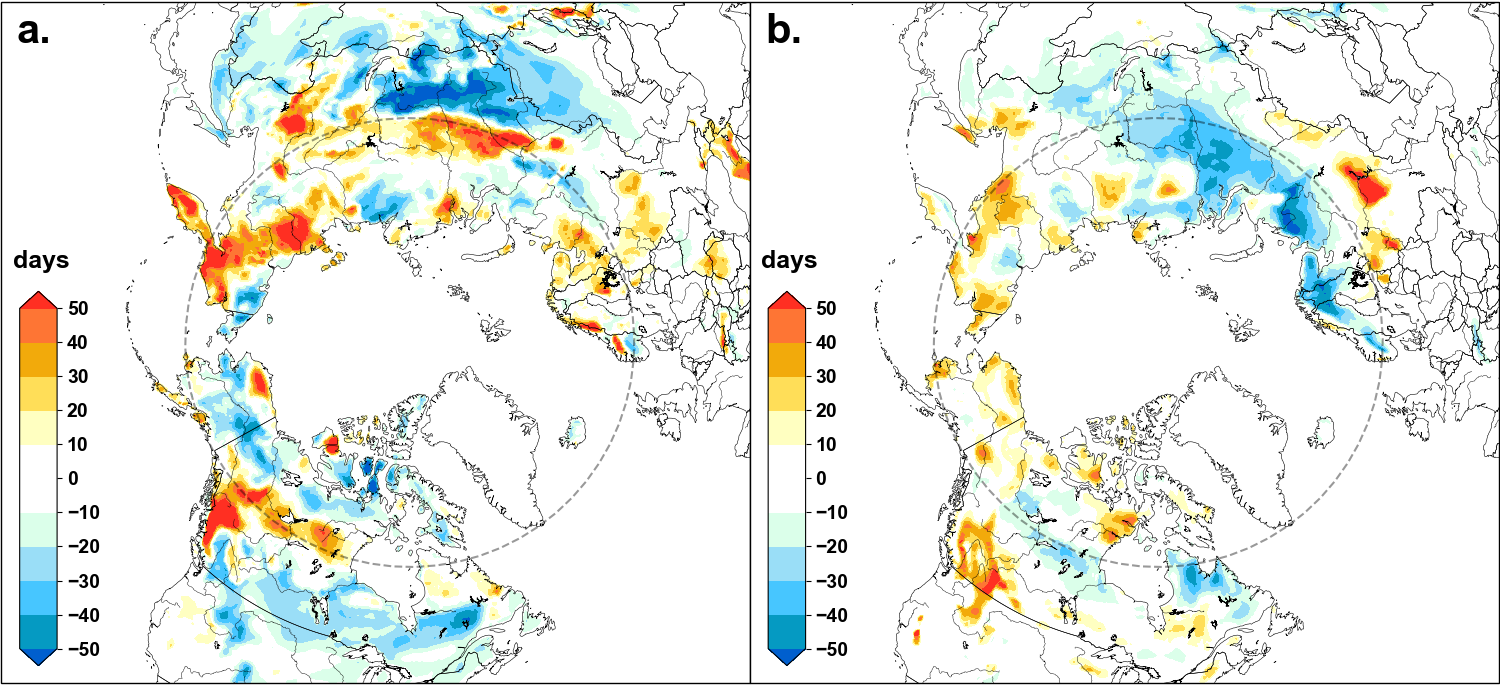
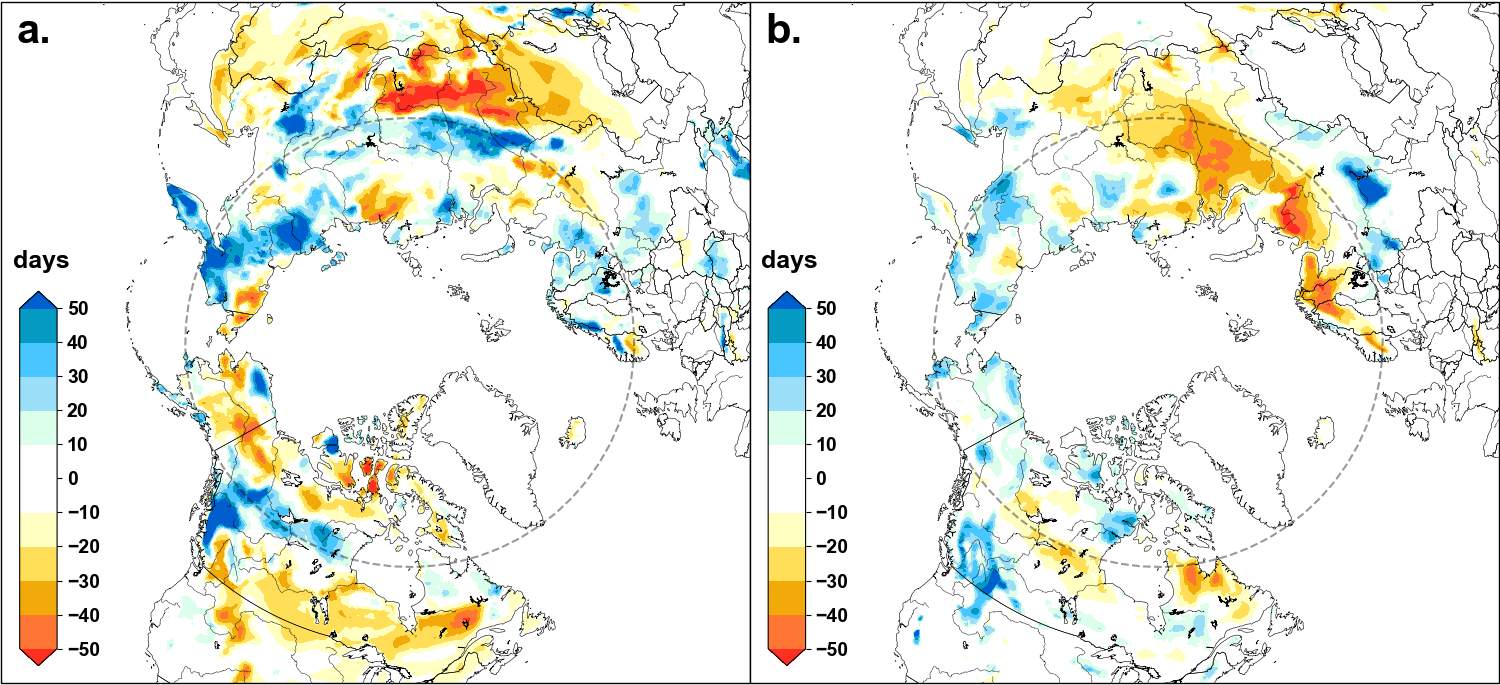
Add fig 3 draft - fig 1: lawrence wants a wider mean-line - fig 2: forgot that blue means more snow

diff --git a/scripts/snow_fig_3.py b/scripts/snow_fig_3.py
@@ -1,0 +1,111 @@
+from pathlib import Path
+
+import cartopy.crs as ccrs
+import geopandas as gpd
+import matplotlib as mpl
+import matplotlib.pyplot as plt
+import xarray as xr
+from mpl_toolkits.axes_grid1.inset_locator import inset_axes
+
+plt.rcParams['font.weight'] = 'bold'
+plt.rcParams['font.family'] = 'Arial'
+plt.rcParams['axes.labelsize'] = 16
+plt.rcParams['axes.labelweight'] = 'bold'
+plt.rcParams['xtick.labelsize'] = 14
+plt.rcParams['ytick.labelsize'] = 14
+
+fig_crs = ccrs.LambertAzimuthalEqualArea(central_latitude=90, central_longitude=-80)
+data_crs = ccrs.PlateCarree()
+figsize = (11, 10)
+dpi = 100
+extent = [-5e6, 5e6, -5e6, 5e6]
+cbar_ticks = [-100, -80, -60, -40, -20, 0, 20, 40, 60, 80, 100]
+# copied the RGB values from Arc18_Snow_Fig2.png
+cmap = mpl.colors.LinearSegmentedColormap.from_list(
+    name='fig3',
+    colors=[
+        (x[0]/255, x[1]/255, x[2]/255) for x in [
+            (255,  47,  34), (255, 113,  57), (239, 162,   0),
+            (255, 211,  66), (255, 255, 156), (255, 255, 255),
+            (255, 255, 255), (255, 255, 255), (198, 255, 222),
+            (140, 211, 255), ( 57, 195, 255), (  0, 150, 189),
+            (  0,  95, 206)
+        ]
+    ],
+    N=256
+)
+
+data_root = Path(__file__).parent.parent / 'data'
+# load netcdf data (snow depth?, orig type = float)
+with xr.open_dataset(data_root / 'ARC_SDP_anomaly_a.nc') as ds:
+    data_a = ds['sdp']
+with xr.open_dataset(data_root / 'ARC_SDP_anomaly_b.nc') as ds:
+    data_b = ds['sdp']
+with xr.open_dataset(data_root / 'ARC_SDP_anomaly_c.nc') as ds:
+    data_c = ds['sdp']
+with xr.open_dataset(data_root / 'ARC_SDP_anomaly_d.nc') as ds:
+    data_d = ds['sdp']
+
+# load vector data
+land = gpd.read_file(data_root / 'vector' / 'land.gpkg').to_crs(fig_crs.proj4_init)
+lakes = gpd.read_file(data_root / 'vector' / 'lakes.gpkg').to_crs(fig_crs.proj4_init)
+ac = gpd.read_file(data_root / 'vector' / 'arcticcircle.gpkg').to_crs(fig_crs.proj4_init)
+rivers = gpd.read_file(data_root / 'vector' / 'rivers.gpkg').to_crs(fig_crs.proj4_init)
+
+# initialize canvas
+fig, axs = plt.subplots(
+    figsize=figsize,
+    nrows=2,
+    ncols=2,
+    sharex=True,
+    sharey=True,
+    subplot_kw={'projection': fig_crs},
+    gridspec_kw={'hspace': 0, 'wspace': 0}
+)
+((ax_a, ax_b), (ax_c, ax_d)) = axs
+
+# setting margins
+plt.subplots_adjust(top=0.999, bottom=0.001, left=0.001, right=0.999)
+
+contour_a = data_a.plot.contourf(
+    ax=ax_a, add_colorbar=False, transform=data_crs, 
+    cmap=cmap, levels=cbar_ticks, extend='both'
+)
+contour_b = data_b.plot.contourf(
+    ax=ax_b, add_colorbar=False, transform=data_crs, 
+    cmap=cmap, levels=cbar_ticks, extend='both'
+)
+contour_c = data_c.plot.contourf(
+    ax=ax_c, add_colorbar=False, transform=data_crs, 
+    cmap=cmap, levels=cbar_ticks, extend='both'
+)
+contour_d = data_d.plot.contourf(
+    ax=ax_d, add_colorbar=False, transform=data_crs, 
+    cmap=cmap, levels=cbar_ticks, extend='both'
+)
+
+# setting figure extents
+ax_a.set_extent(extent, crs=fig_crs)
+ax_a.outline_patch.set_linewidth(1)
+ax_b.outline_patch.set_linewidth(1)
+ax_c.outline_patch.set_linewidth(1)
+ax_d.outline_patch.set_linewidth(1)
+
+# adding vector data to map
+for ax in [ax_a, ax_b, ax_c, ax_d]:
+    ax.add_geometries(land['geometry'], facecolor='None', edgecolor='black', linewidth=0.4, crs=fig_crs)
+    ax.add_geometries(lakes['geometry'], facecolor='white', edgecolor='black', linewidth=0.4, zorder=2, crs=fig_crs)
+    ax.add_geometries(ac['geometry'], facecolor='None', edgecolor='black', linestyle='dashed', linewidth=1.5, alpha=0.4, zorder=3, crs=fig_crs)
+    ax.add_geometries(rivers['geometry'], facecolor='None', edgecolor='black', linewidth=0.3, crs=fig_crs)
+
+# colorbar
+cb_ax = fig.add_axes([0.92, 0.25, 0.02, 0.5])
+cbar = fig.colorbar(contour_a, ax=axs[:, 1], cax=cb_ax, ticks=cbar_ticks, extend='both')
+
+# reset axes positions (pain!)
+ax_a.set_position(pos=[0.001, 0.498, 0.45, 0.5])
+ax_b.set_position(pos=[0.451, 0.498, 0.45, 0.5])
+ax_c.set_position(pos=[0.001, 0.001, 0.45, 0.5])
+ax_d.set_position(pos=[0.451, 0.001, 0.45, 0.5])
+
+plt.show()

diff --git a/scripts/snow_fig_1.py b/scripts/snow_fig_1.py
@@ -75,11 +75,17 @@ current['june_sce_ea'].plot(
 )
 
 # plot means
-df.iloc[:-1][['may_sce_na', 'may_sce_ea']].rolling(5, center=True).mean().plot(
+sub_mean = df.iloc[:-1]
+sub_mean = sub_mean.set_index(
+    pd.date_range(f'{sub_mean.index.min()}-01-01', f'{sub_mean.index.max()}-01-01', freq='YS')
+)
+rolling_may = sub_mean[['may_sce_na', 'may_sce_ea']].rolling(5, min_periods=0, closed='both', center=True).mean()
+rolling_may.set_index(rolling_may.index.year).plot(
     ax=ax_may, solid_joinstyle='round', legend=False, 
     zorder=1, linewidth=3, color=['black', 'red']
 )
-df.iloc[:-1][['june_sce_na', 'june_sce_ea']].rolling(5, center=True).mean().plot(
+rolling_june = sub_mean[['june_sce_na', 'june_sce_ea']].rolling(5, min_periods=0, closed='both', center=True).mean()
+rolling_june.set_index(rolling_june.index.year).plot(
     ax=ax_june, solid_joinstyle='round', legend=False, 
     zorder=1, linewidth=3, color=['black', 'red']
 )
@@ -99,5 +105,10 @@ ax_june.set_ylabel('June SCE Anomaly')
 na_marker = Line2D([0], [0], marker='o', color='None', markersize=10, markerfacecolor='black', label='North American Arctic')
 ea_marker = Line2D([0], [0], marker='o', color='None', markersize=10, markerfacecolor='red', label='Eurasian Arctic')
 ax_may.legend(handles=[na_marker, ea_marker], loc=3, fontsize=12, frameon=False)
+
+# axis text indicators
+#ax_may.text(0.02, 0.92, 'a.', fontsize=20, transform=ax_may.transAxes)
+ax_may.text(-0.15, 0.97, 'a.', fontsize=24, transform=ax_may.transAxes)
+ax_june.text(-0.15, 0.97, 'b.', fontsize=24, transform=ax_june.transAxes)
 
 plt.savefig(data_root.parent / 'figures' / 'ARC_Snow_Fig1-python.png', dpi=dpi)

diff --git a/scripts/snow_fig_2.py b/scripts/snow_fig_2.py
@@ -21,11 +21,11 @@ cmap = mpl.colors.LinearSegmentedColormap.from_list(
     name='fig2',
     colors=[
         (x[0]/255, x[1]/255, x[2]/255) for x in [
-            (  0, 95,206), (  0,150,189), ( 57,195,255),
-            (140,211,255), (198,255,222), (255,255,255),
-            (255,255,255), (255,255,255), (255,255,156),
-            (255,211, 66), (239,162,  0), (255,113, 57),
-            (255, 47, 34)
+            (255,  47,  34), (255, 113,  57), (239, 162,   0),
+            (255, 211,  66), (255, 255, 156), (255, 255, 255),
+            (255, 255, 255), (255, 255, 255), (198, 255, 222),
+            (140, 211, 255), ( 57, 195, 255), (  0, 150, 189),
+            (  0,  95, 206)
         ]
     ],
     N=256
